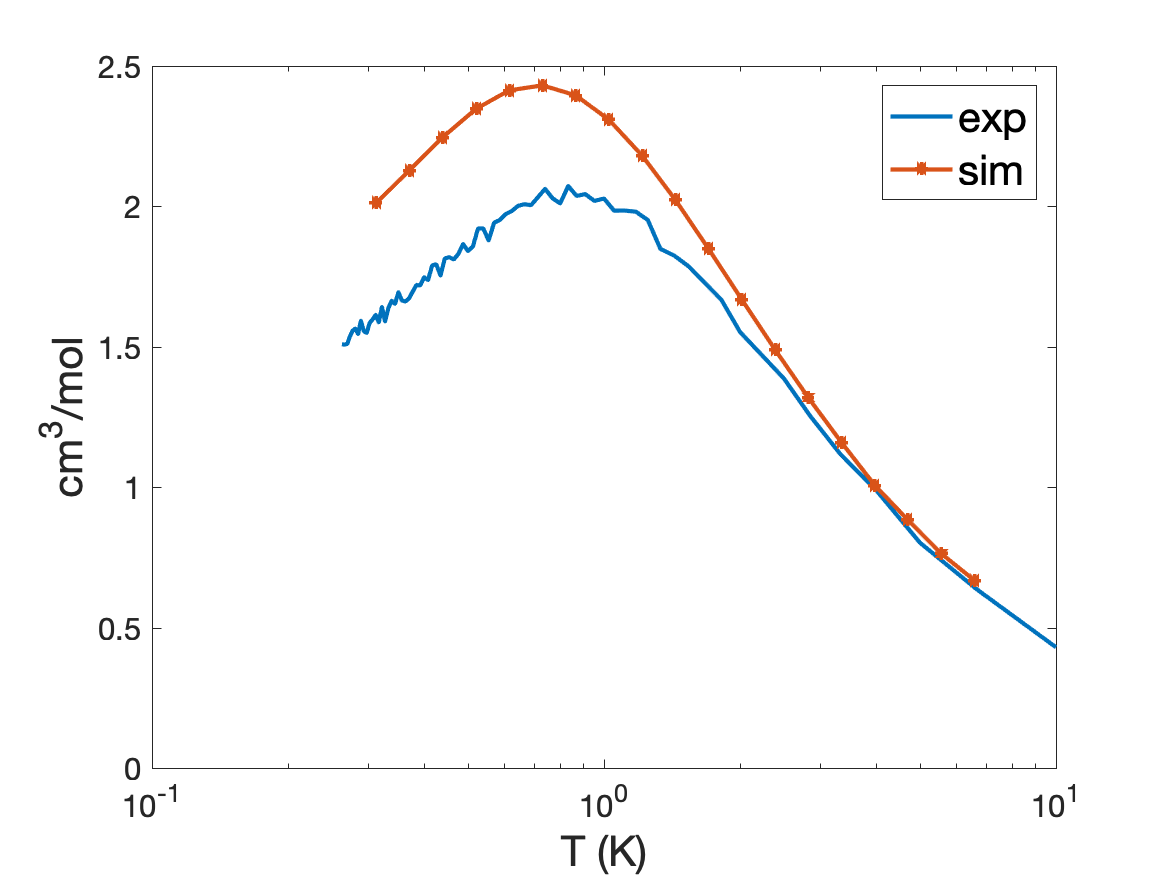
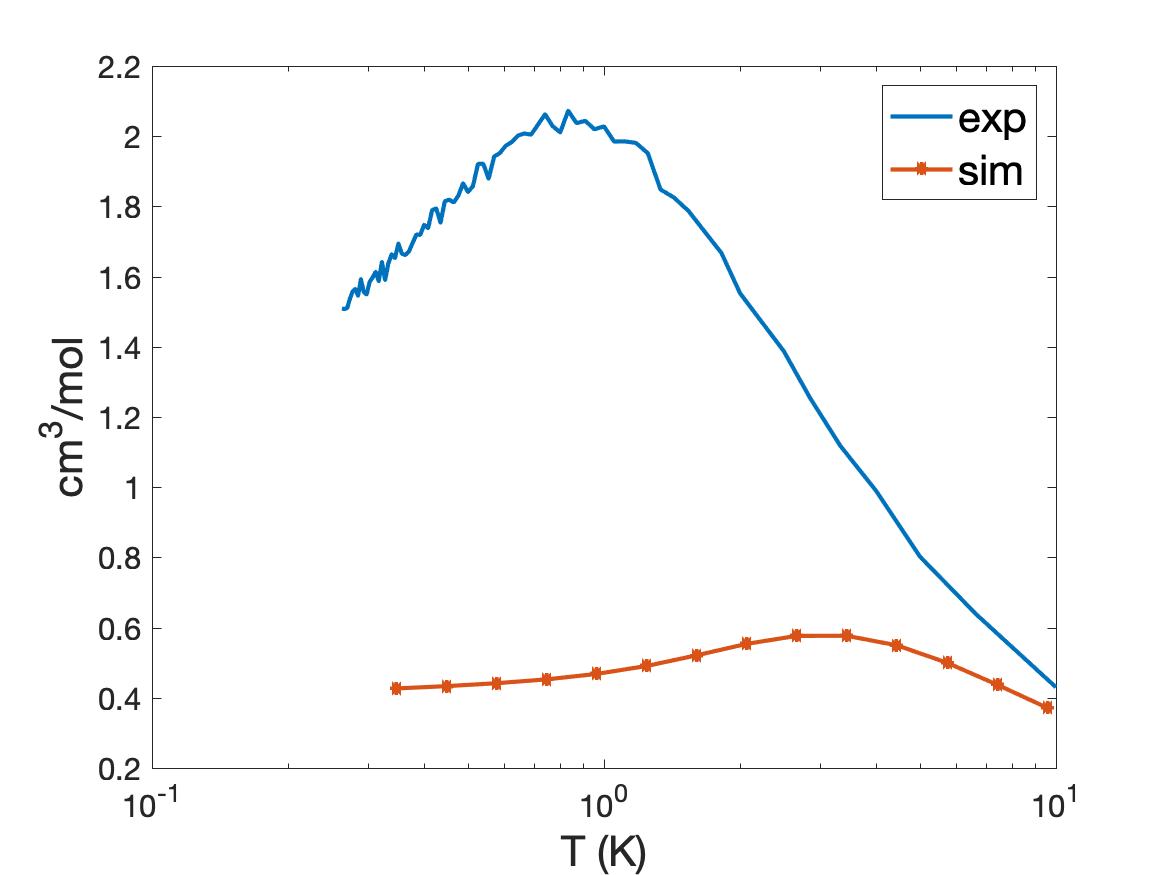
*

diff --git a/RunScript/RunOpt.m b/RunScript/RunOpt.m
@@ -19,7 +19,7 @@ CmDataTRange = {[0.3, 20]};
 
 % CmDataField: the magnetic filed of experimantal data (Unit: Tesla)
 % CmDataField = {[B1x, B1y, B1z]; [B2x, B2y, B2z]; ...};
-CmDataField = {[0, 0,0]};
+CmDataField = {[0, 0, 0]};
 
 % CmDatagInfo: the No. of g factor used for the conversion
 % Only require when MoldeConf.gFactor_Type = 'dir';
@@ -49,9 +49,10 @@ ChiDataField = {[0.1,0,0]; ...
 % Only require when MoldeConf.gFactor_Type = 'dir';
 % ChiDatagInfo = {gNum1, gNum2, ...};
 ChiDatagInfo = {};
-%--------------------------------------------------------------------------
 
-% // loss function --------------------------------------------------------
+% ============================ %
+% Loss function customization
+% ============================ %
 % the weights between different data
 % LossConf.WeightList = [], equal weight
 % LossConf.WeightList = [w1, w2, ...];
@@ -65,10 +66,11 @@ LossConf.Type = 'abs-err'; % 'abs-err', 'rel-err'
 % design of loss function
 %       'log'     L = log10(L)
 %       'native'  L = L
-LossConf.Design = 'log'; % 'native', 'log'
-%--------------------------------------------------------------------------
+LossConf.Design = 'native'; % 'native', 'log'
 
-% // settings -------------------------------------------------------------
+% ====================== %
+% Save & Plot Settings
+% ====================== %
 % plot result in each iteration
 Setting.PLOTFLAG = 1; % 0 -> off, 1 -> on
 
@@ -77,8 +79,6 @@ Setting.SAVEFLAG = 0;   % 0 -> off, 1 -> save the best, 2 -> save all
 
 % the file name to save intermediate results.
 Setting.SAVENAME = 'ToyModel';
-%--------------------------------------------------------------------------
-% =========================================================================
 
 
 % // ====================== Package input data ============================

diff --git a/SpinModel/SpinModel_ToyAFHC.m b/SpinModel/SpinModel_ToyAFHC.m
@@ -1,7 +1,7 @@
 function [ Lattice, ModelConf ] = SpinModel_ToyAFHC( )
 % -------------------------------------------------------------
 % Spin Chain
-% XXZ model
+% XYZC model [WL]
 % Parameter:
 %           J      Nearest neighbor SxSx + SySy term
 %           Delta  Nearest neighbor SzSz term
@@ -47,9 +47,9 @@ Lattice.L = Inf;
 % PARAMETERS OPTIMIZATION RANGE SETTINGS
 % =============================================================
 % J range
-ModelConf.Para_Range{1} = [-10, 10];
+ModelConf.Para_Range{1} = [-5, 5];
 % Delta range
-ModelConf.Para_Range{2} = [-10, 10];
+ModelConf.Para_Range{2} = [-5, 5];
 % gx range
 ModelConf.gFactor_Range{1} = 2;
 % gz range

diff --git a/SpinModel/SpinModel_AFHC.m b/SpinModel/SpinModel_AFHC.m
@@ -25,9 +25,12 @@ ModelConf.ModelName_Full = 'Antiferromagnetic Heisenberg Chain';
 ModelConf.Trotter = 'Trotter_AFHC';
 ModelConf.AvlbSolver = {'iLTRG'};    % available solvers: iLTRG (full-T)
 ModelConf.LocalSpin = '1/2';
+
+% //Some comments are needed [WL]
 ModelConf.Para_Name = {'J'; 'Delta'; 'alpha'};
 ModelConf.Para_Unit = {'K'; 'ES'; 'ES'};
 ModelConf.Para_EnScale = 'J';
+
 ModelConf.Para_Range = cell(length(ModelConf.Para_Name), 1);
 ModelConf.gFactor_Num = 1;
 ModelConf.gFactor_Type = 'xyz';

diff --git a/UtilityFunc/GetPara.m b/UtilityFunc/GetPara.m
@@ -2,6 +2,8 @@ function [ Para ] = GetPara( QMagenConf, K_min )
 % function [Para] = GetPara(Model, Field, K_min)
 % Set the parameter of the problem.
 
+% WL: change name as PassPara ?
+
 Para.ManyBodySolver = QMagenConf.Config.ManyBodySolver; 
 
 % //pass interaction map (ED, XTRG) or Trotter gates (iLTRG) to solvers
